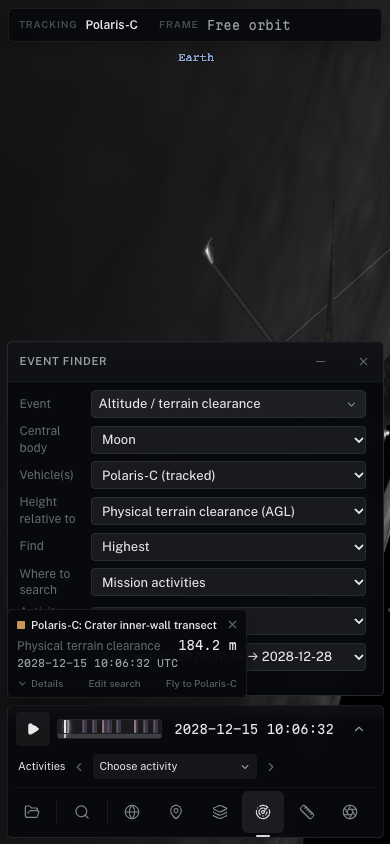
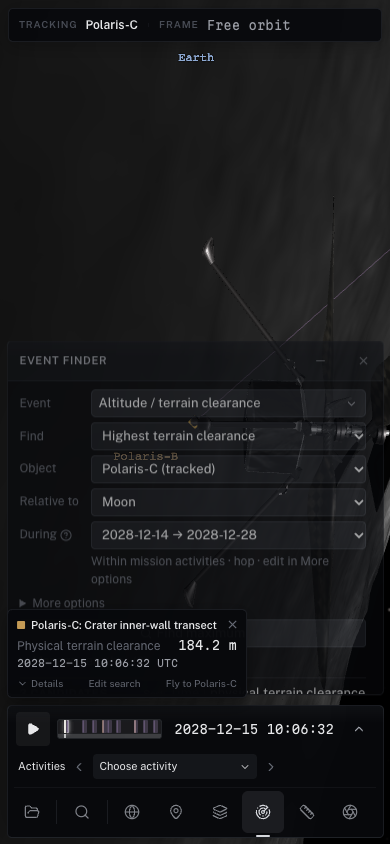
Simplify height search questions and lead with measured results

diff --git a/apps/viewer/src/components/EventFinder.svelte b/apps/viewer/src/components/EventFinder.svelte
@@ -1,13 +1,7 @@
 <script lang="ts">
-  /**
-   * Geometry event finder.
-   *
-   * The panel is deliberately kind-agnostic: the body pickers come from the
-   * selected kind's declared roles and the inputs from its declared params, so
-   * the occultation, eclipse and FOV kinds that follow appear here without the
-   * panel growing a branch for each. Only the results list knows anything
-   * concrete, and only that an event has a time, a label and metrics.
-   */
+  /** Shared Event Finder lifecycle, with question-oriented presentation for
+   * numerical height searches. Typed definitions, scopes and navigation remain
+   * owned by the common event state. */
   import { trajectorySourceWindow, trajectoryMetricAvailability } from '../lib/trajectory-analysis.svelte';
   import { analysis } from '../lib/analysis.svelte';
   import { Loader2, Search, Ban, Plus, Trash2, ArrowUp, ArrowDown, X, CircleHelp } from 'lucide-svelte';
@@ -55,6 +49,18 @@
   });
 
   let advancedOpen = $state(false);
+  let editWindow = $state(false);
+  const heightMetrics = [
+    { value: 'heightAbovePhysicalTerrain', label: 'terrain clearance' },
+    { value: 'radialHeightAboveReferenceSphere', label: 'height above reference sphere' },
+    { value: 'heightAboveReferenceEllipsoid', label: 'height above reference ellipsoid' },
+  ];
+  function heightReference(result: NonNullable<GeometryEvent['trajectoryAnalysis']>): string {
+    return result.metric === 'heightAbovePhysicalTerrain'
+      ? result.body === 'Moon' ? 'above lunar terrain' : `above terrain on ${result.body}`
+      : result.metric === 'radialHeightAboveReferenceSphere' ? `above ${result.body} reference sphere` : `above ${result.body} reference ellipsoid`;
+  }
+
   let availableActivities = $derived(vs.activities.filter(a => a.enabled !== false && a.body === form?.bodies.center && (!form?.bodies.observer || a.vehicle === form.bodies.observer) && (!form?.params.activityKind || form.params.activityKind === 'all' || a.kind === form.params.activityKind) && a.start <= (form?.endEt ?? Infinity) && a.end >= (form?.startEt ?? -Infinity)));
   const visibleParam = (param: EventParamSpec) => !param.when || param.when.values.includes(form?.params[param.when.key] ?? '');
   let incomplete = $derived(ef.events.some(event => event.trajectoryAnalysis?.coverage === 'partial'));
@@ -176,6 +182,7 @@
   function chooseWindow(value: string) {
     startBad = false;
     endBad = false;
+    editWindow = value === 'custom';
     if (value === 'source' && sourceWindow) {
       setWindow(sourceWindow.start, sourceWindow.end);
       ef.windowSource = 'custom';
@@ -212,7 +219,7 @@
 
 <InstrumentPanel key="events" title="Event finder" width={toolDef('events').width} {onClose}>
 
-  {#if unavailable && (!coverage || coverage.status === 'unknown' || (coverage.status === 'available' && outside.length === 0))}
+  {#if unavailable && !metricUnavailable && (!coverage || coverage.status === 'unknown' || (coverage.status === 'available' && outside.length === 0))}
     <p class="event-unavailable ui-helper mb-2" role="note">{unavailable.message}</p>
   {/if}
 
@@ -248,12 +255,27 @@
   </div>
 
   {#if form}
-    <!-- Bodies, one picker per role the kind declares -->
-    {#each kind.roles as role}
+    {#if kind.engine === 'trajectory-analysis'}
       <div class="flex items-center gap-2 mb-1.5">
-        <span class="ui-label w-20 shrink-0">{role.label}</span>
+        <label for="event-height-question" class="ui-label w-20 shrink-0">Find</label>
+        <select id="event-height-question" class="ui-control min-w-0 flex-1 bg-surface-3 text-text-primary border border-border rounded px-1.5 py-1"
+          value={`${form.params.metric}:${form.params.extremum}`}
+          onchange={(e) => { const [metric, extremum] = e.currentTarget.value.split(':'); setParam('metric', metric); setParam('extremum', extremum); }}>
+          {#each heightMetrics as metric}
+            {#each ['maximum', 'minimum'] as direction}
+              <option value={`${metric.value}:${direction}`} disabled={!!metricAvailability[metric.value]} title={metricAvailability[metric.value] ?? ''}>{direction === 'maximum' ? 'Highest' : 'Lowest'} {metric.label}{metricAvailability[metric.value] ? ' (unavailable)' : ''}</option>
+            {/each}
+          {/each}
+        </select>
+      </div>
+    {/if}
+    <!-- Bodies, one picker per role the kind declares -->
+    {#each kind.engine === 'trajectory-analysis' ? [...kind.roles].reverse() : kind.roles as role}
+      <div class="flex items-center gap-2 mb-1.5">
+        <label for={`event-body-${role.role}`} class="ui-label w-20 shrink-0">{kind.engine === 'trajectory-analysis' ? role.role === 'observer' ? 'Object' : 'Relative to' : role.label}</label>
         <select
-          class="ui-control flex-1 bg-surface-3 text-text-primary border border-border rounded px-1.5 py-1 cursor-pointer outline-none"
+          class="ui-control min-w-0 flex-1 bg-surface-3 text-text-primary border border-border rounded px-1.5 py-1 cursor-pointer outline-none"
+          id={`event-body-${role.role}`}
           value={form.bodies[role.role] ?? ''}
           onchange={(e) => setRole(role.role, (e.target as HTMLSelectElement).value)}
         >
@@ -278,7 +300,7 @@
           </select>
         {:else if param.kind === 'choice'}
           <select id={`event-param-${param.key}`}
-            class="ui-control flex-1 bg-surface-3 text-text-primary border border-border rounded px-1.5 py-1 cursor-pointer outline-none"
+            class="ui-control min-w-0 flex-1 bg-surface-3 text-text-primary border border-border rounded px-1.5 py-1 cursor-pointer outline-none"
             value={form.params[param.key] ?? ''}
             onchange={(e) => setParam(param.key, (e.target as HTMLSelectElement).value)}
           >
@@ -304,7 +326,7 @@
         {:else}
           <input id={`event-param-${param.key}`}
             type="number"
-            class="ui-control flex-1 bg-surface-3 text-text-primary border border-border rounded px-1.5 py-1 font-mono outline-none"
+            class="ui-control min-w-0 flex-1 bg-surface-3 text-text-primary border border-border rounded px-1.5 py-1 font-mono outline-none"
             placeholder={param.required === false ? 'optional' : ''}
             min={param.min}
             max={param.max}
@@ -316,17 +338,13 @@
         {/if}
       </div>
     {/snippet}
-    {#each (kind.params ?? []).filter(p => !p.advanced && visibleParam(p)) as param}
+    {#each (kind.params ?? []).filter(p => kind.engine !== 'trajectory-analysis' && !p.advanced && visibleParam(p)) as param}
       {@render parameter(param)}
     {/each}
-    {#if kind.engine === 'trajectory-analysis' && form.params.scope !== 'window' && availableActivities.length === 0}
-      <p class="ui-helper mb-2" role="status">No explicit mission activities match. Choose another kind, vehicle or time window. Activities are not inferred from trajectory arcs.</p>
-    {/if}
-
     <!-- One window choice; only Custom exposes the editable timestamps. -->
     <div class="flex items-center gap-2 mb-1.5">
       <div class="w-20 shrink-0 flex items-center gap-1">
-        <label for="event-window" class="ui-label">Window</label>
+        <label for="event-window" class="ui-label">{kind.engine === 'trajectory-analysis' ? 'During' : 'Window'}</label>
         <Popover.Root>
           <Popover.Trigger class="text-text-muted hover:text-text-primary cursor-pointer" aria-label="How search windows are chosen">
             <CircleHelp size={12} />
@@ -349,20 +367,25 @@
           ? `Suggested: centered on the current scene time, limited to ${ef.kind === 'occultation' ? '90 days' : '2 years'}, and clipped to usable coverage when known. ${utc(form.startEt)} – ${utc(form.endEt)}`
           : `${utc(form.startEt)} – ${utc(form.endEt)}`}
       >
-        <option value="suggested">{windowSelection === 'suggested' ? `Suggested · ${compactRange(form.startEt, form.endEt)}` : 'Suggested window'}</option>
+        <option value="suggested">{windowSelection === 'suggested' ? `${kind.engine === 'trajectory-analysis' ? '' : 'Suggested · '}${compactRange(form.startEt, form.endEt)}` : 'Suggested window'}</option>
         {#each coverage?.windows ?? [] as w, index (w.start)}
           <option value={`available:${index}`}>Available · {compactRange(w.start, w.end)}{index > 0 ? ` (${formatSeconds(w.start - coverage!.windows[index - 1]!.end)} gap)` : ''}</option>
         {/each}
         {#if sourceWindow}<option value="source">Trajectory envelope (may include gaps) · {compactRange(sourceWindow.start, sourceWindow.end)}</option>{/if}
         <option value="visible">Visible timeline · {windowSelection === 'visible' ? compactRange(form.startEt, form.endEt) : compactRange(vs.scrubMin, vs.scrubMax)}</option>
         <option value="catalog">Catalog span · {windowSelection === 'catalog' ? compactRange(form.startEt, form.endEt) : compactRange(vs.scrubBaseMin, vs.scrubBaseMax)}</option>
-        <option value="custom">Custom…</option>
+        <option value="custom">{kind.engine === 'trajectory-analysis' && windowSelection === 'custom' ? compactRange(form.startEt, form.endEt) : 'Custom…'}</option>
       </select>
     </div>
-    {#if sourceWindow && isCurrentWindow(sourceWindow)}
+    {#if kind.engine === 'trajectory-analysis' && form.params.scope !== 'window'}
+      <p class="ui-helper mb-2 ml-22">Within {form.params.scope === 'selected-activities' ? 'selected' : 'mission'} activities{form.params.activityKind && form.params.activityKind !== 'all' ? ` · ${form.params.activityKind}` : ''} · edit in More options</p>
+    {/if}
+    {#if kind.engine !== 'trajectory-analysis' && sourceWindow && isCurrentWindow(sourceWindow)}
       <p class="ui-helper mb-2" role="note">Source envelope across objects and intervals; gaps and relative-state or terrain coverage are checked during search. This span is not guaranteed usable throughout.</p>
     {/if}
     {#if windowSelection === 'custom'}
+      <details class="ui-helper mb-2" open={kind.engine !== 'trajectory-analysis' || editWindow}>
+        <summary class="cursor-pointer">Edit dates</summary>
       <div class="flex items-center gap-2 mb-1.5">
         <label for="event-from" class="ui-label w-20 shrink-0">From</label>
         <input
@@ -385,6 +408,7 @@
           onkeydown={(e) => { if (e.key === 'Enter') commitEnd(); }}
         />
       </div>
+      </details>
     {/if}
     {#if coverage?.status === 'available' && outside.length > 0 && (coverage.exact || unavailable)}
       <p class="event-range invalid mb-2 ml-22" role="status">
@@ -417,15 +441,19 @@
 
     {#if kind.engine === 'trajectory-analysis'}
       <details class="mb-2 ui-helper" bind:open={advancedOpen}>
-        <summary class="cursor-pointer">Advanced search options</summary>
+        <summary class="cursor-pointer">More options</summary>
         <div class="mt-2">
-          {#each (kind.params ?? []).filter(p => p.advanced && visibleParam(p)) as param}
+    {#if kind.engine === 'trajectory-analysis' && form.params.scope !== 'window' && availableActivities.length === 0}
+      <p class="ui-helper mb-2" role="status">No explicit mission activities match. Choose another kind, vehicle or time window. Activities are not inferred from trajectory arcs.</p>
+    {/if}
+
+          {#each (kind.params ?? []).filter(p => !['metric', 'extremum'].includes(p.key) && visibleParam(p)) as param}
             {@render parameter(param)}
           {/each}
     <div class="flex items-center gap-2 mb-2">
       <span class="ui-label w-20 shrink-0">{form.params.sampling === 'fixed' ? 'Max step' : 'Min step'}</span>
       <select
-        class="ui-control flex-1 bg-surface-3 text-text-primary border border-border rounded px-1.5 py-1 cursor-pointer outline-none"
+        class="ui-control min-w-0 flex-1 bg-surface-3 text-text-primary border border-border rounded px-1.5 py-1 cursor-pointer outline-none"
         value={String(form.step)}
         onchange={(e) => setStep(Number((e.target as HTMLSelectElement).value))}
         title="Adaptive uses this as a minimum spacing and reports actual spacing; Fixed uses it as a maximum. Source breakpoints are retained. Narrow unsampled extrema may be missed."
@@ -445,7 +473,7 @@
     <div class="flex items-center gap-2 mb-2">
       <span class="ui-label w-20 shrink-0">Step</span>
       <select
-        class="ui-control flex-1 bg-surface-3 text-text-primary border border-border rounded px-1.5 py-1 cursor-pointer outline-none"
+        class="ui-control min-w-0 flex-1 bg-surface-3 text-text-primary border border-border rounded px-1.5 py-1 cursor-pointer outline-none"
         value={String(form.step)}
         onchange={(e) => setStep(Number((e.target as HTMLSelectElement).value))}
         title="Sampling interval. An event shorter than the step can be missed."
@@ -479,7 +507,7 @@
                progress, but do not measure each call's relative cost. -->
           <Loader2 size={12} class="animate-spin" /> Searching…
         {:else}
-          <Search size={12} /> Find events
+          <Search size={12} /> {kind.engine === 'trajectory-analysis' ? form.params.extremum === 'maximum' ? 'Find maximum' : 'Find minimum' : 'Find events'}
         {/if}
       </button>
       {#if ef.running}
@@ -517,6 +545,15 @@
 
     {#if ef.restoring}<p class="ui-helper mt-1.5" role="status">Restoring shared event searches…</p>{/if}
 
+    {#if unfilledRoles.length > 0}
+      <div class="ui-label mt-1.5">
+        Choose a body for {kind.roles.filter((r) => unfilledRoles.includes(r.role)).map((r) => r.label.toLowerCase()).join(' and ')}.
+      </div>
+    {/if}
+  {/if}
+
+  <details class="ui-helper mt-2 event-search-management">
+    <summary class="cursor-pointer">Manage searches{configuredQueries.length ? ` (${configuredQueries.length})` : ''}</summary>
     {#if configured}
       <div class="mt-1.5 flex items-center gap-3 ui-helper">
         <label class="flex items-center gap-1 cursor-pointer" title="Include this search in analysis">
@@ -539,13 +576,6 @@
         </label>
       </div>
     {/if}
-
-    {#if unfilledRoles.length > 0}
-      <div class="ui-label mt-1.5">
-        Choose a body for {kind.roles.filter((r) => unfilledRoles.includes(r.role)).map((r) => r.label.toLowerCase()).join(' and ')}.
-      </div>
-    {/if}
-  {/if}
 
   <!-- The list, once there is more than the one being edited: two or more
        searches, or one while the form holds an unsaved draft. -->
@@ -603,6 +633,8 @@
     </div>
   {/if}
 
+  </details>
+
   <!-- Results -->
   {#if ef.fault && !(unavailable && ef.fault.code === 'unavailable')}
     <!-- A fault is "we could not look", which reads differently from a search
@@ -639,15 +671,12 @@
     </div>
   {:else if ef.events.length > 0}
     <div class="mt-2 pt-2 border-t border-border">
-      {#if kind.engine === 'trajectory-analysis'}
-        <p class="ui-helper mb-2" class:text-warning={incomplete} role="status">{incomplete ? 'Incomplete search — candidates only; no overall winner established.' : 'Sampled candidates — one per vehicle and matching interval; not certified global extrema.'}</p>
-        {#if ef.hint}<details class="ui-helper mb-2"><summary>Search coverage and limits</summary><p>{ef.hint}</p></details>{/if}
-      {:else if ef.hint}<p class="ui-helper mb-2" role="status">{ef.hint}</p>{/if}
+      {#if kind.engine !== 'trajectory-analysis' && ef.hint}<p class="ui-helper mb-2" role="status">{ef.hint}</p>{/if}
       <div class="flex items-center justify-between gap-2 mb-1">
         <span class="ui-section-label">
-          {ef.events.length} event{ef.events.length === 1 ? '' : 's'}
+          {kind.engine === 'trajectory-analysis' ? ef.events.length === 1 ? 'Result' : `${ef.events.length} candidates` : `${ef.events.length} event${ef.events.length === 1 ? '' : 's'}`}
         </span>
-        {#if metricSortLabel}
+        {#if metricSortLabel && ef.events.length > 1}
           <!-- One labelled control: what the list is ordered by. -->
           <div class="sort-control ui-meta" role="group" aria-label="Sort results">
             <span>Sort:</span>
@@ -663,10 +692,12 @@
           </div>
         {/if}
       </div>
+      {#if mixedTemporality}
       <div class="event-marker-legend ui-helper" aria-label="3D event marker legend">
         <span><i class="event-marker-diamond" aria-hidden="true"></i>Instant</span>
         <span><i class="event-marker-span" aria-hidden="true"></i>Interval</span>
       </div>
+      {/if}
       <div bind:this={resultsListEl} class="flex flex-col gap-1 max-h-64 overflow-y-auto">
         {#each shownEvents as event}
           {@const headline = headlineMetric(event)}
@@ -686,9 +717,11 @@
           >
             {#if event.trajectoryAnalysis}
               {@const result = event.trajectoryAnalysis}
-              <div class="event-summary"><span class="font-medium">{result.object} — {result.activityName ?? 'Time window'}</span><span class="ui-readout event-value">{headline ? formatMetric(headline) : ''}</span></div>
-              <p class="ui-helper">{headline?.label} · {result.coverage === 'partial' ? 'incomplete coverage' : 'sampled coverage'}</p>
+              <div class="height-answer"><strong>{headline ? formatMetric(headline) : ''}</strong> {heightReference(result)}</div>
+              <p class="height-context">{result.object}{result.activityName ? ` · ${result.activityName}` : ''} · {eventTime(event)} UTC</p>
+              <span class="height-go">Go to result →</span>
             {/if}
+            {#if !event.trajectoryAnalysis}
             <div class="flex justify-between gap-2 items-baseline">
               <span class="ui-readout event-time">{eventTime(event)}</span>
               <!-- A bare "2.5 d" beside a date reads as an offset from it.
@@ -714,10 +747,14 @@
             {:else if !event.trajectoryAnalysis}
               <div class="event-summary">{eventSummary(event)}</div>
             {/if}
-            {#if isSelectedEvent(event)}
+            {/if}
+            {#if isSelectedEvent(event) && !event.trajectoryAnalysis}
               <div class="mt-1"><EventDetails {event} legend /></div>
             {/if}
           </button>
+          {#if event.trajectoryAnalysis && isSelectedEvent(event)}
+            <details class="ui-helper px-2 pb-2"><summary class="cursor-pointer">Measurement details</summary><EventDetails {event} /></details>
+          {/if}
           {#if isSelectedEvent(event)}
             <!-- Deselect without re-seeking; clicking the row itself still
                  re-focuses the event. -->
@@ -728,11 +765,29 @@
           </div>
         {/each}
       </div>
+      {#if kind.engine === 'trajectory-analysis'}
+        {#if incomplete}<p class="height-caution ui-helper mt-2" role="status">Partial search — {ef.events[0]?.trajectoryAnalysis?.extremum === 'minimum' ? 'lowest' : 'highest'} measured candidate, not a confirmed {ef.events[0]?.trajectoryAnalysis?.extremum === 'minimum' ? 'minimum' : 'maximum'}.</p>{/if}
+        <details class="ui-helper mt-1 event-coverage-details">
+          <summary class="cursor-pointer">Coverage details</summary>
+          <p class="mt-1">{ef.hint ?? 'One sampled and locally refined candidate per object and matching interval; not certified global extrema.'}</p>
+          {#each shownEvents.filter(event => event.trajectoryAnalysis?.coverage === 'partial') as event}
+            {@const result = event.trajectoryAnalysis!}
+            <p class="mt-1">Candidate scope: {result.object} · {compactRange(result.window.start, result.window.end)} UTC. Trajectory: {result.source.id ?? 'identity unknown'}{result.terrain ? `; terrain: ${result.terrain.id}` : ''}.</p>
+          {/each}
+          {#if incomplete}<p class="mt-1">Narrow During to an interval with known trajectory and terrain coverage, or use mission activity restrictions in More options. Missing terrain never falls back to a reference surface.</p>{/if}
+        </details>
+      {/if}
     </div>
   {/if}
 </InstrumentPanel>
 
 <style>
+  .height-answer { font-size: var(--text-body); color: var(--color-text-primary); line-height: 1.4; }
+  .height-answer strong { font-size: 1.25em; font-weight: 650; }
+  .height-context { color: var(--color-text-secondary); font-size: var(--text-label); margin-top: 3px; line-height: 1.5; }
+  .height-go { display: inline-block; color: var(--color-primary-accent); font-size: var(--text-label); margin-top: 4px; }
+  .height-caution { color: var(--color-text-secondary); border-left: 2px solid var(--color-warning); padding-left: 7px; }
+  .event-search-management { color: var(--color-text-secondary); }
   /* Inline text controls. */
   .ctrl-link {
     font-size: 10px;

diff --git a/docs/validation/issue-329/README.md b/docs/validation/issue-329/README.md
@@ -18,9 +18,12 @@ to a declared kind (flight, drive, hop, descent, landing, phase, other).
 **Specific activities** selects explicit IDs. Both clip records to the chosen
 time window and report empty sets without falling back to parked time.
 
-Highest/Lowest and Height relative to describe the scientific question.
+**Find** combines direction and datum (for example, **Highest terrain clearance**).
+**Object**, **Relative to** and **During** describe participants and dates.
+Activity restrictions move under **More options**, with a concise active restriction
+shown next to During; restored custom dates remain collapsed under **Edit dates**.
 Frame, datum radius/source pins, sample step and refinement tolerance live under
-Advanced search options. No physical terrain source means AGL is unavailable;
+More options. No physical terrain source means AGL is unavailable;
 the form disables Search while the selected metric is unavailable, displays its exact
 reason, and preserves explicit metric choices across body changes. It explains named sphere/ellipsoid
 alternatives before search, with no fallback or silent datum change.
@@ -34,9 +37,9 @@ locally refined candidate per matching interval. Partial searches retain usable
 candidates with a visible incomplete-search warning; no overall winner is
 established. Science/provenance details expand separately.
 
-![Native Event Finder height type](trajectory-form.png)
+![Single-object height result](trajectory-single.png)
 
-[Compact form](trajectory-form-compact.png) · [Partial candidates](trajectory-partial.png)
+[Compact form](trajectory-single-compact-form.png) · [Compact result after internal scrolling](trajectory-single-compact.png) · [Multiple candidates](trajectory-form.png) · [Partial candidates](trajectory-partial.png)
 
 ## One numerical operation
 
@@ -284,3 +287,30 @@ these form checks. Build, lint, purity and all typechecks pass (Svelte: zero err
 or warnings). Targeted numerical/control/agent/viewer tests: 245 passed across ten
 files; the independent terrain/SPICE scientific checks are included. Exact-head CI
 is tracked in the PR; previous-head CI is not claimed for this revision.
+
+## Screenshot-level UI follow-up
+
+The main height form combines metric/direction and keeps one During time choice.
+Activity, source, frame, reference and refinement controls remain available under
+More options; stored typed definitions and the numerical solver are unchanged.
+Results lead with measured value and an explicit reference (for example, metres
+above lunar terrain), then object/activity and UTC, followed by Go to result.
+A window is never displayed as an invented activity. Single results have no sort
+controls or instant/interval legend. Search enable/timeline/query management is
+collapsed. Selected measurement/provenance details and Coverage details are also
+collapsed. A partial search has one compact candidate warning; details retain
+limits, candidate intervals/source identities and an actionable narrowing suggestion.
+
+Chrome/Metal acceptance passes on Apple M4 Max with no page errors, including the
+combined metric choices, maximum/minimum ranking, real native navigation, share
+replay, local Ask/modern event visualization, partial results, and source invalidation.
+The single-object screenshot deliberately uses a 6,000-evaluation budget and is a
+partial **candidate**, not a claimed maximum or missing-terrain diagnosis. At
+390px the existing compact sheet scrolls internally: the answer and warning are
+reachable, labels remain one line, there is no document horizontal overflow, and
+the dock scrollTop remains zero. Both initial form and scrolled result are captured.
+
+Svelte check reports zero errors/warnings; lint and viewer TypeScript checks pass.
+Full viewer suite: 768 passed; its only failure is the previously documented
+inventory assertion seeing five ignored experiment catalogs. No assertion was
+weakened or local catalog deleted. New exact-head CI is tracked in the PR.
